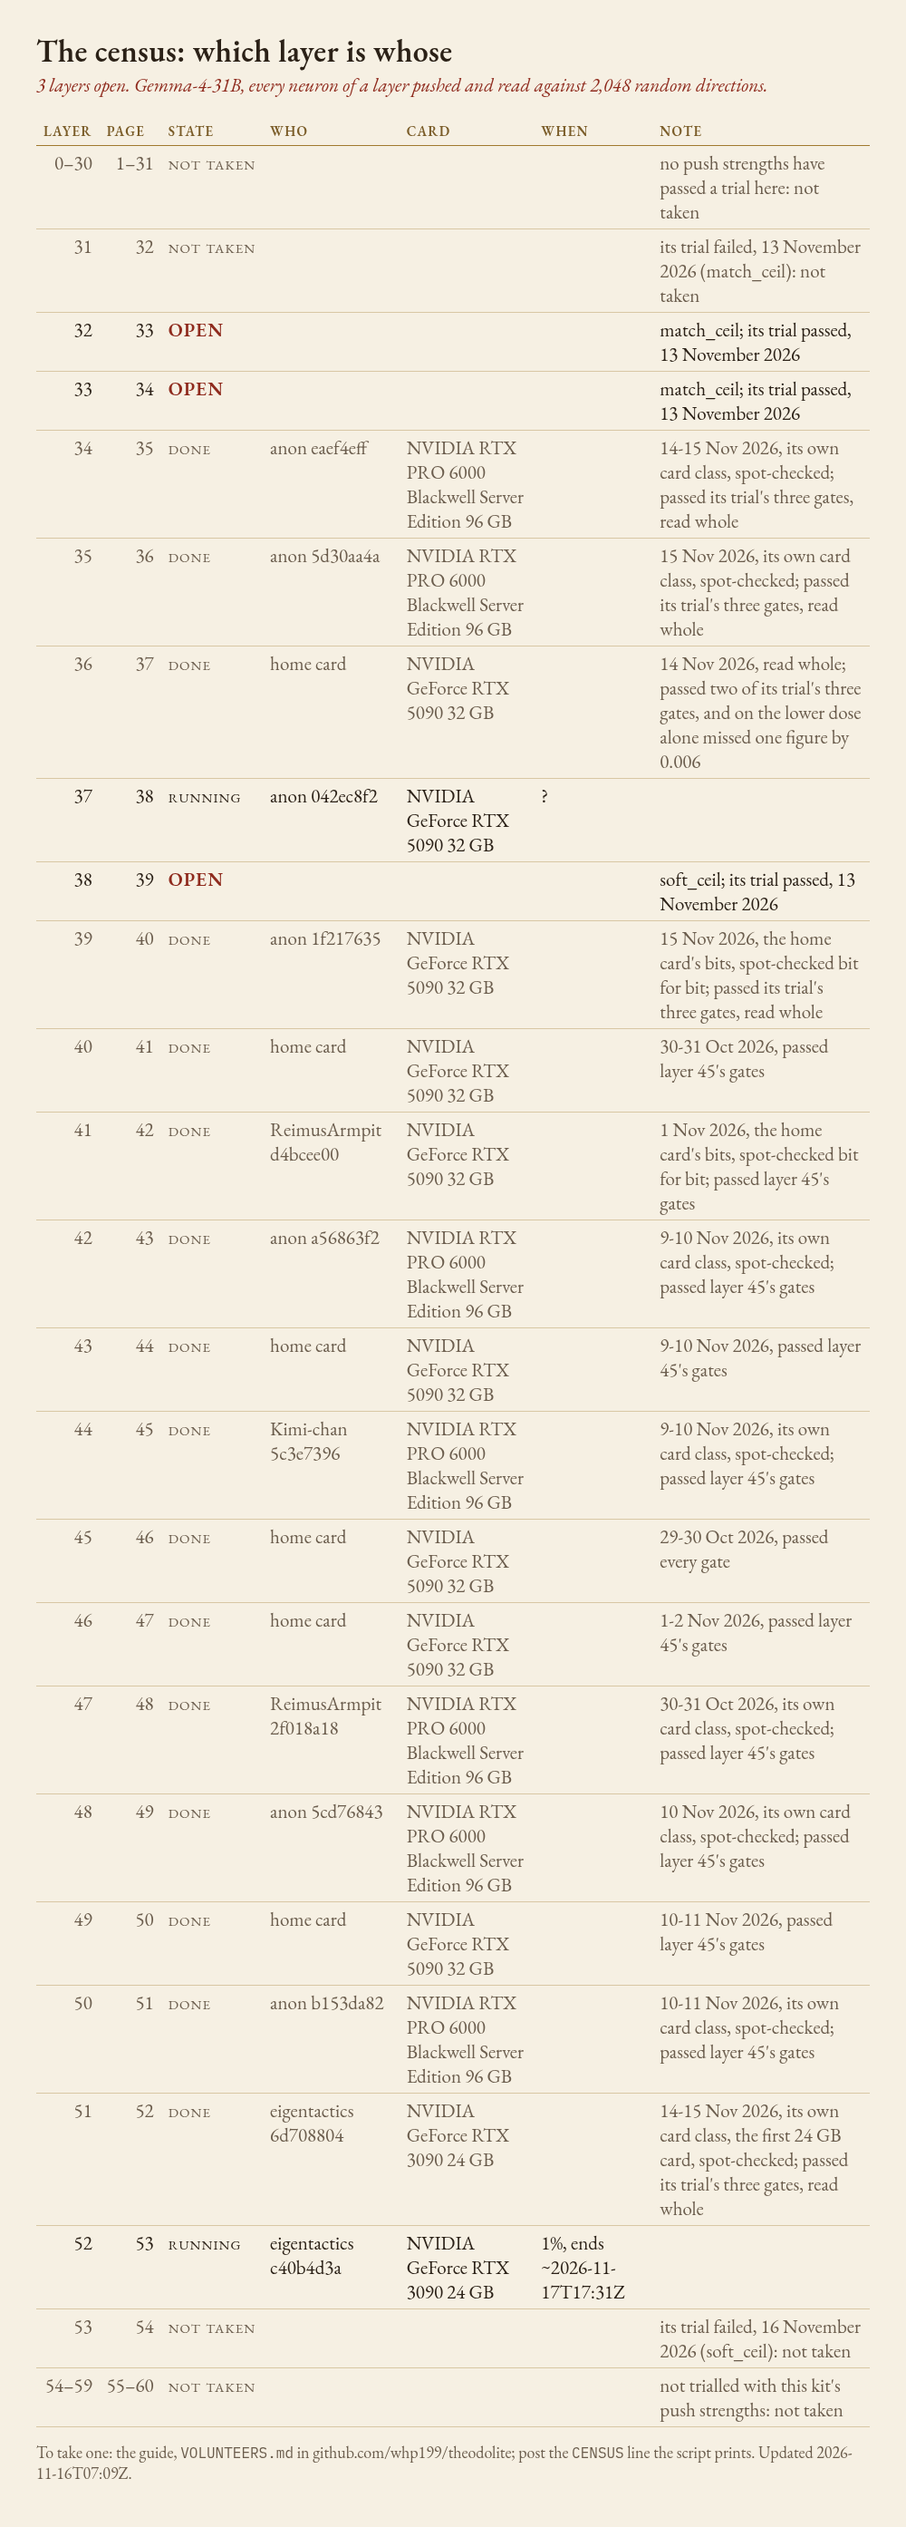
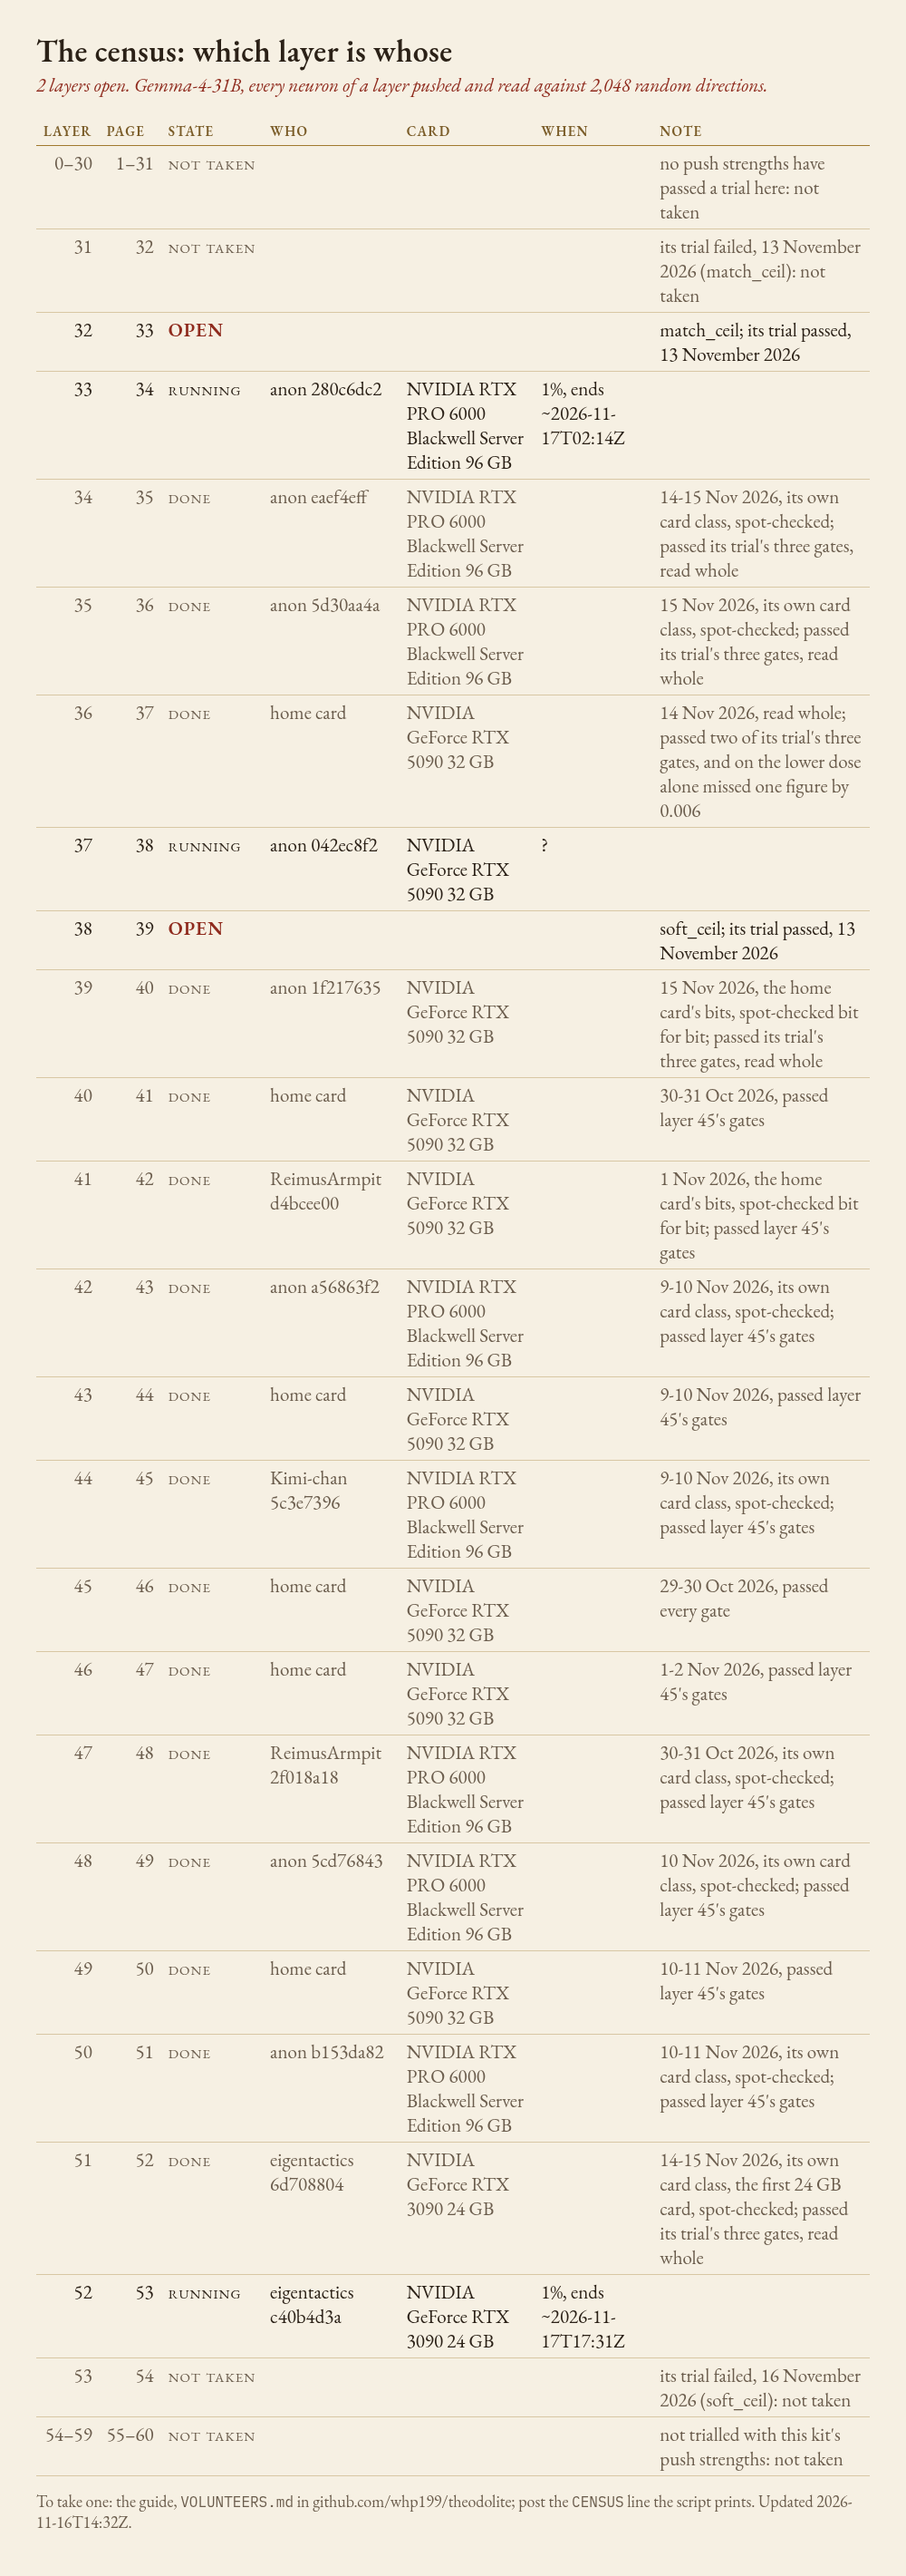
Board: layer 33 reserved and started by anon (Asynonymous, 280c6dc2, RTX PRO 6000, own class); 32 and 38 open
Synced from the board issue's comment of 16 November 13:12Z: RESERVE and START in one, ETA 17 Nov 02:14Z. Running
now: 33, 37 and 52. The thread post's draft says so (same length, 1,996 characters).

diff --git a/volunteers/BOARD.md b/volunteers/BOARD.md
@@ -7,7 +7,7 @@ Kit 4 (census-kit-4). How to take a layer: [VOLUNTEERS.md](https://github.com/wh
 | 0–30 | 1–31 | not taken |  |  |  | no push strengths have passed a trial here: not taken |
 | 31 | 32 | not taken |  |  |  | its trial failed, 13 November 2026 (match_ceil): not taken |
 | 32 | 33 | OPEN |  |  |  | match_ceil; its trial passed, 13 November 2026 |
-| 33 | 34 | OPEN |  |  |  | match_ceil; its trial passed, 13 November 2026 |
+| 33 | 34 | running | anon 280c6dc2 | NVIDIA RTX PRO 6000 Blackwell Server Edition 96 GB | 1%, ends ~2026-11-17T02:14Z |  |
 | 34 | 35 | done | anon eaef4eff | NVIDIA RTX PRO 6000 Blackwell Server Edition 96 GB |  | 14-15 Nov 2026, its own card class, spot-checked; passed its trial's three gates, read whole |
 | 35 | 36 | done | anon 5d30aa4a | NVIDIA RTX PRO 6000 Blackwell Server Edition 96 GB |  | 15 Nov 2026, its own card class, spot-checked; passed its trial's three gates, read whole |
 | 36 | 37 | done | home card | NVIDIA GeForce RTX 5090 32 GB |  | 14 Nov 2026, read whole; passed two of its trial's three gates, and on the lower dose alone missed one figure by 0.006 |
@@ -43,4 +43,4 @@ Judged:
 - L35 anon 5d30aa4a: accepted (15 Nov 2026, its own card class, spot-checked; passed its trial's three gates, read whole)
 - L39 anon 1f217635: accepted (15 Nov 2026, the home card's bits, spot-checked bit for bit; passed its trial's three gates, read whole)
 
-Holds: 36 h after RESERVE to START; then the run's end time (from PROGRESS) plus 24 h; at most 10 days in all. Updated 2026-11-16T07:09Z.
+Holds: 36 h after RESERVE to START; then the run's end time (from PROGRESS) plus 24 h; at most 10 days in all. Updated 2026-11-16T14:32Z.
